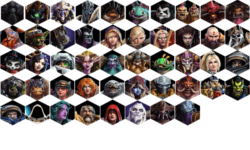
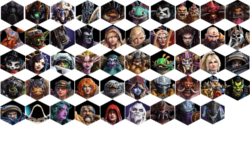
Added new hero Dehaka

Changed region(s): [[0.784, 0.6667, 0.924, 0.8267]]

diff --git a/src/js/constants.js b/src/js/constants.js
@@ -42,6 +42,7 @@ export const HEROES = [
   { value: 'Brightwing', label: 'Brightwing'},
   { value: 'Chen', label: 'Chen'},
   { value: 'Cho', label: 'Cho'},
+  { value: 'Dehaka', label: 'Dehaka'},
   { value: 'Diablo', label: 'Diablo'},
   { value: 'ETC', label: 'E.T.C.'},
   { value: 'Falstad', label: 'Falstad'},

diff --git a/src/less/hero-portraits.less b/src/less/hero-portraits.less
@@ -57,3 +57,4 @@
 .Xul            { background-position: -125px -100px; }
 .Zagara         { background-position: -150px -100px; }
 .Zeratul        { background-position: -175px -100px; }
+.Dehaka         { background-position: -200px -100px; }
